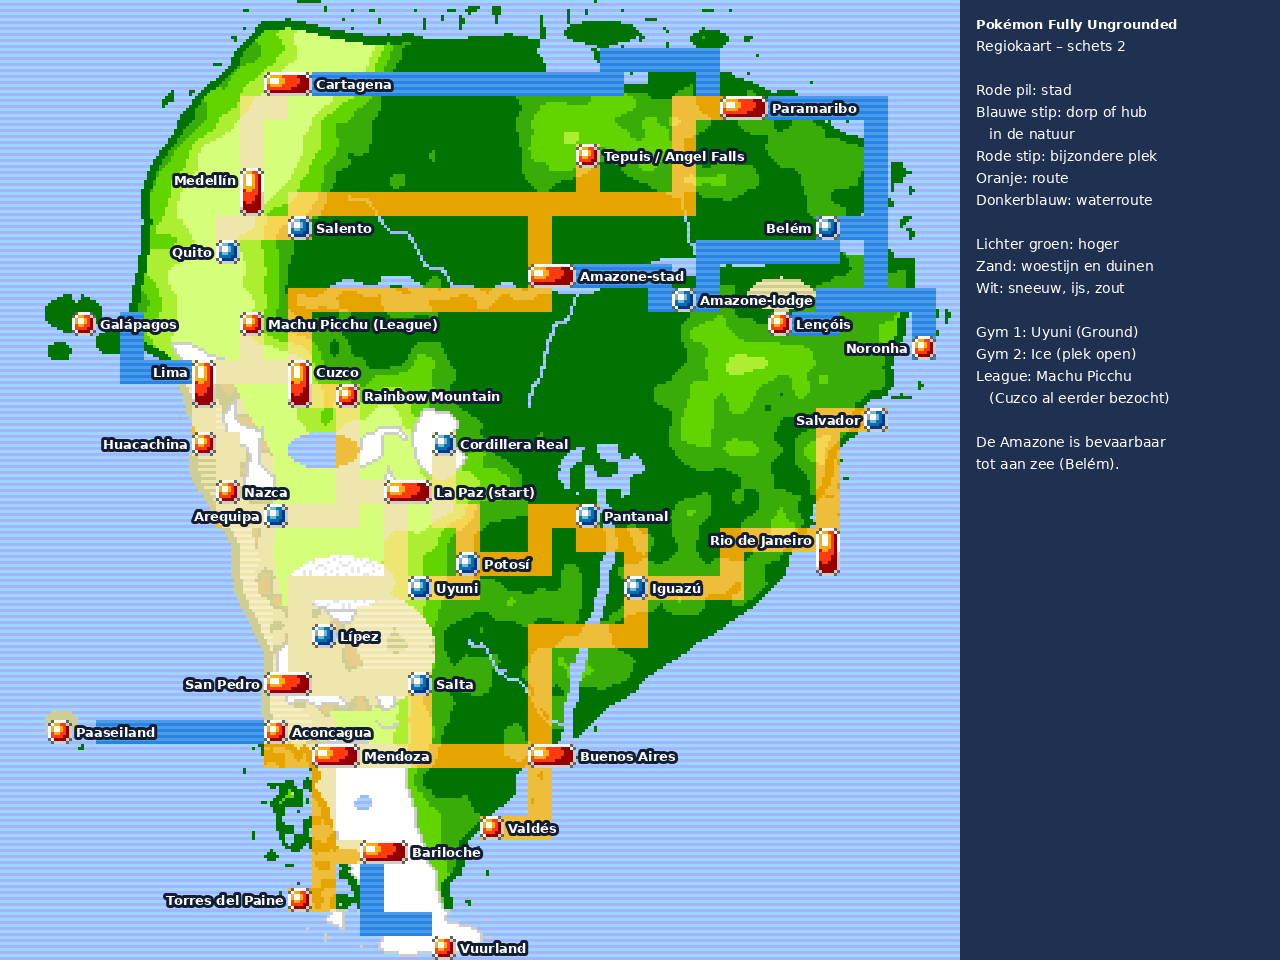
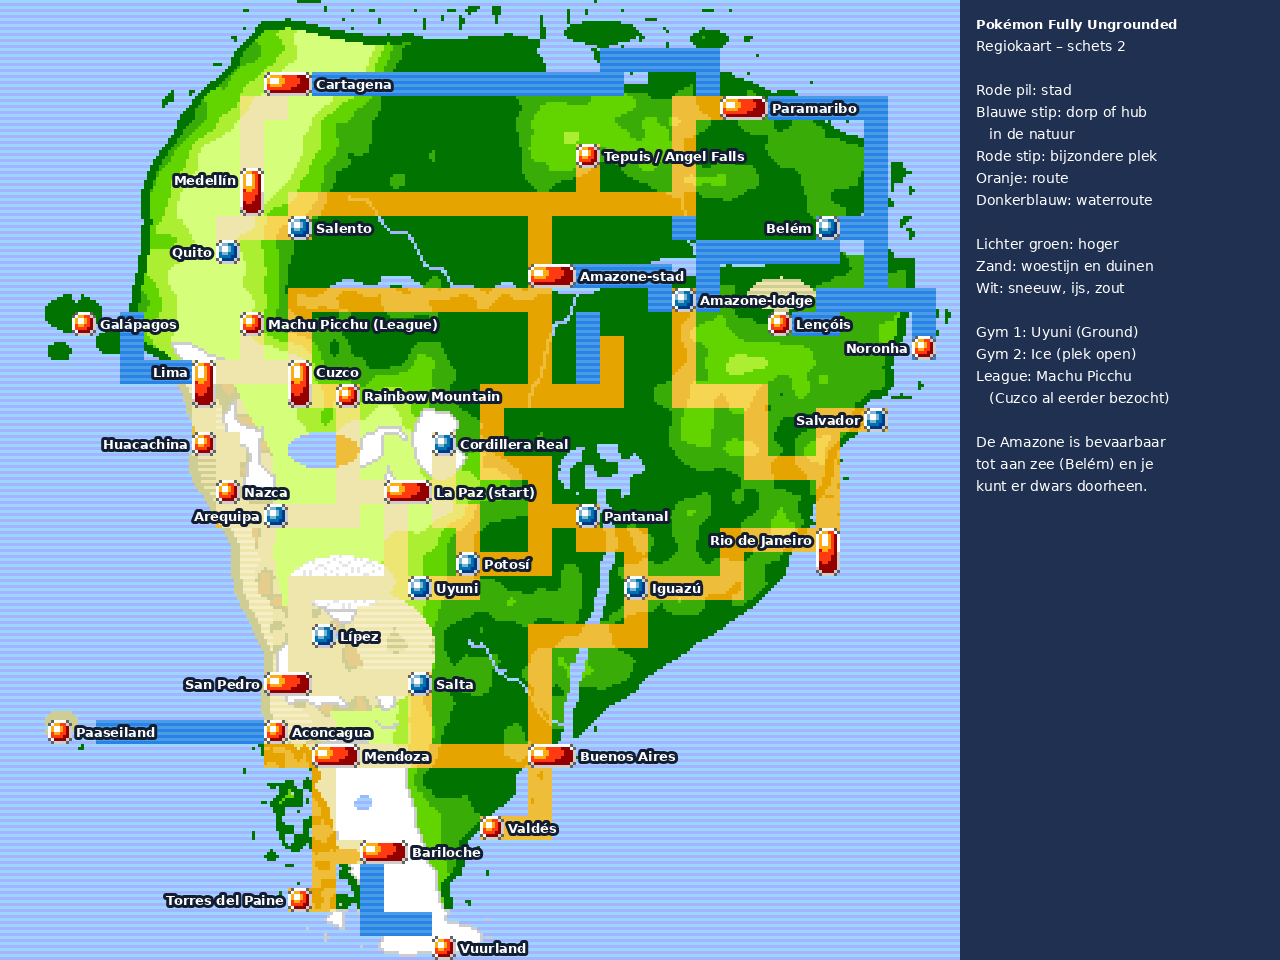
Concept/regiokaart: Amazone dwars doorheen te verkennen

diff --git a/tools/concept/regiokaart.py b/tools/concept/regiokaart.py
@@ -240,6 +240,12 @@ path((10, 9), (9, 9), (9, 10))                             # Quito
 path((10, 7), (10, 4), (11, 4), (11, 3))                   # Medellín -> Cartagena
 path((22, 8), (24, 8), (24, 6))                            # tepuis
 path((24, 8), (28, 8), (28, 4), (30, 4))                   # -> Paramaribo
+path((22, 12), (22, 16), (20, 16), (20, 19), (22, 19), (22, 21))   # dwars door de jungle naar de Pantanal
+path((22, 16), (25, 16), (25, 14))                        # jungle-lus naar het oosten
+path((28, 12), (28, 16), (31, 16), (31, 19), (34, 19))    # Amazone-lodge -> zuid door de jungle -> Rio/Salvador
+# waterroutes: zijrivieren
+path((24, 13), (24, 15), sea=True)
+path((28, 9), (28, 7), sea=True)
 # waterroutes: de Amazone af naar zee, kust en eilanden
 path((23, 11), (27, 11), (27, 12), (28, 12), (29, 12), (29, 10), (34, 10), (34, 9), sea=True)
 path((35, 9), (36, 9), (36, 12), (34, 12), (34, 13), (33, 13), sea=True)          # Belém -> Lençóis
@@ -306,7 +312,7 @@ lines = [('Pokémon Fully Ungrounded', font), ('Regiokaart – schets 2', small)
          ('Wit: sneeuw, ijs, zout', small), ('', small),
          ('Gym 1: Uyuni (Ground)', small), ('Gym 2: Ice (plek open)', small), ('League: Machu Picchu', small),
          ('   (Cuzco al eerder bezocht)', small), ('', small),
-         ('De Amazone is bevaarbaar', small), ('tot aan zee (Belém).', small)]
+         ('De Amazone is bevaarbaar', small), ('tot aan zee (Belém) en je', small), ('kunt er dwars doorheen.', small)]
 yy = 16
 for text, f in lines:
     dr.text((lx, yy), text, font=f, fill=(255, 255, 255))

diff --git a/docs/concept/CONCEPT.md b/docs/concept/CONCEPT.md
@@ -10,6 +10,7 @@ Wat hier staat, is **besloten** (door Jordi). Losse ideeën staan in `IDEEEN.md`
 
 ## Regio
 - **Start in een La Paz-achtige stad** (hoog, kabelbanen), met een **ijsgebied** ernaast (Cordillera Real). Sneeuw vroeg in de game, niet als eindgebied. Geen standaardopening met kleine stad en grasroute.
+- **De Amazone:** bevaarbaar tot aan zee én dwars doorheen te verkennen (jungleroutes, zijrivieren, lussen).
 - **Veel natuur, minder grote steden** (Jordi): Pokémon Centers en kleine hubs in de natuur (refugio's, lodges, berghutten).
 - Steden geïnspireerd op: La Paz, Cuzco, Rio de Janeiro, Lima, San Pedro de Atacama, Mendoza, Buenos Aires, Cartagena, Paramaribo, Uyuni, Bariloche, Medellín; plus originele plekken.
 
